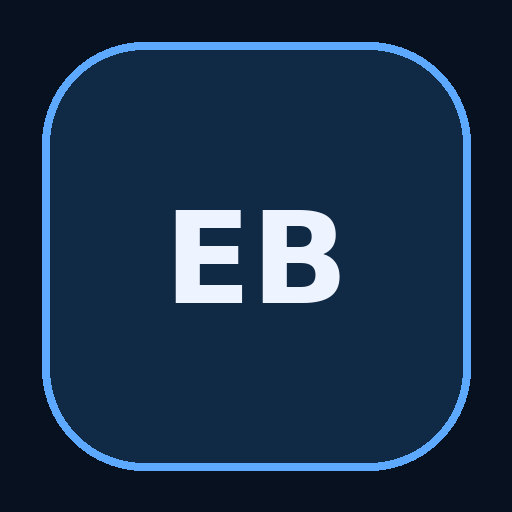
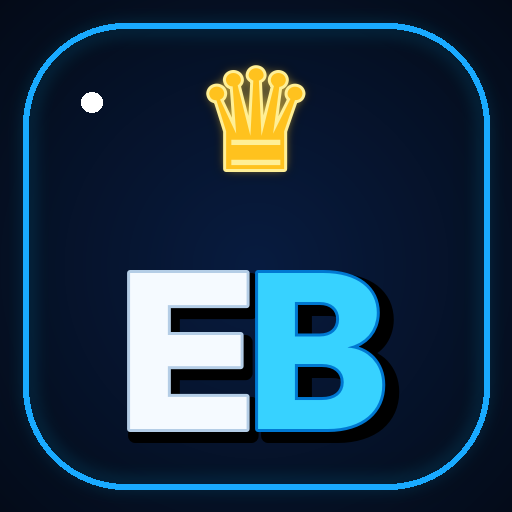
Add files via upload

diff --git a/index.html b/index.html
@@ -12,7 +12,7 @@
 *{box-sizing:border-box}body{margin:0;border-left:3px solid #ef4444;border-right:3px solid #ef4444;box-shadow:inset 0 0 0 1px rgba(239,68,68,.22);background:#07111f;color:#eef4ff;font-family:Arial,sans-serif}
 button,input,select{font:inherit}button{cursor:pointer}
 .header{height:70px;background:#0b1728;border-bottom:1px solid #1b3553;display:flex;align-items:center;justify-content:space-between;padding:0 18px;position:sticky;top:0;z-index:10}
-.logo{font-weight:900;font-size:25px;letter-spacing:-1px}.logo span{color:#5da9ff}
+.logo{position:relative;display:inline-block;padding-top:10px;font-weight:900;font-size:25px;letter-spacing:-1px;text-shadow:0 0 12px rgba(77,190,255,.18)}.logo:before{content:"♛";position:absolute;left:50%;top:-8px;transform:translateX(-50%);font-size:16px;line-height:1;color:#f5c542;text-shadow:0 0 7px rgba(245,197,66,.65),0 0 14px rgba(0,183,255,.22)}.logo span{color:#5da9ff;text-shadow:0 0 10px rgba(93,169,255,.42)}
 .header-right{display:flex;gap:10px;align-items:center}.balance{background:#10243b;border:1px solid #24476b;border-radius:12px;padding:9px 12px;color:#72b5ff;font-weight:800}
 .wrap{max-width:900px;margin:auto;padding:22px 15px 80px}
 .welcome{font-size:25px;font-weight:800;margin:5px 0 5px}.sub{color:#8fa6bf;margin-bottom:20px}
